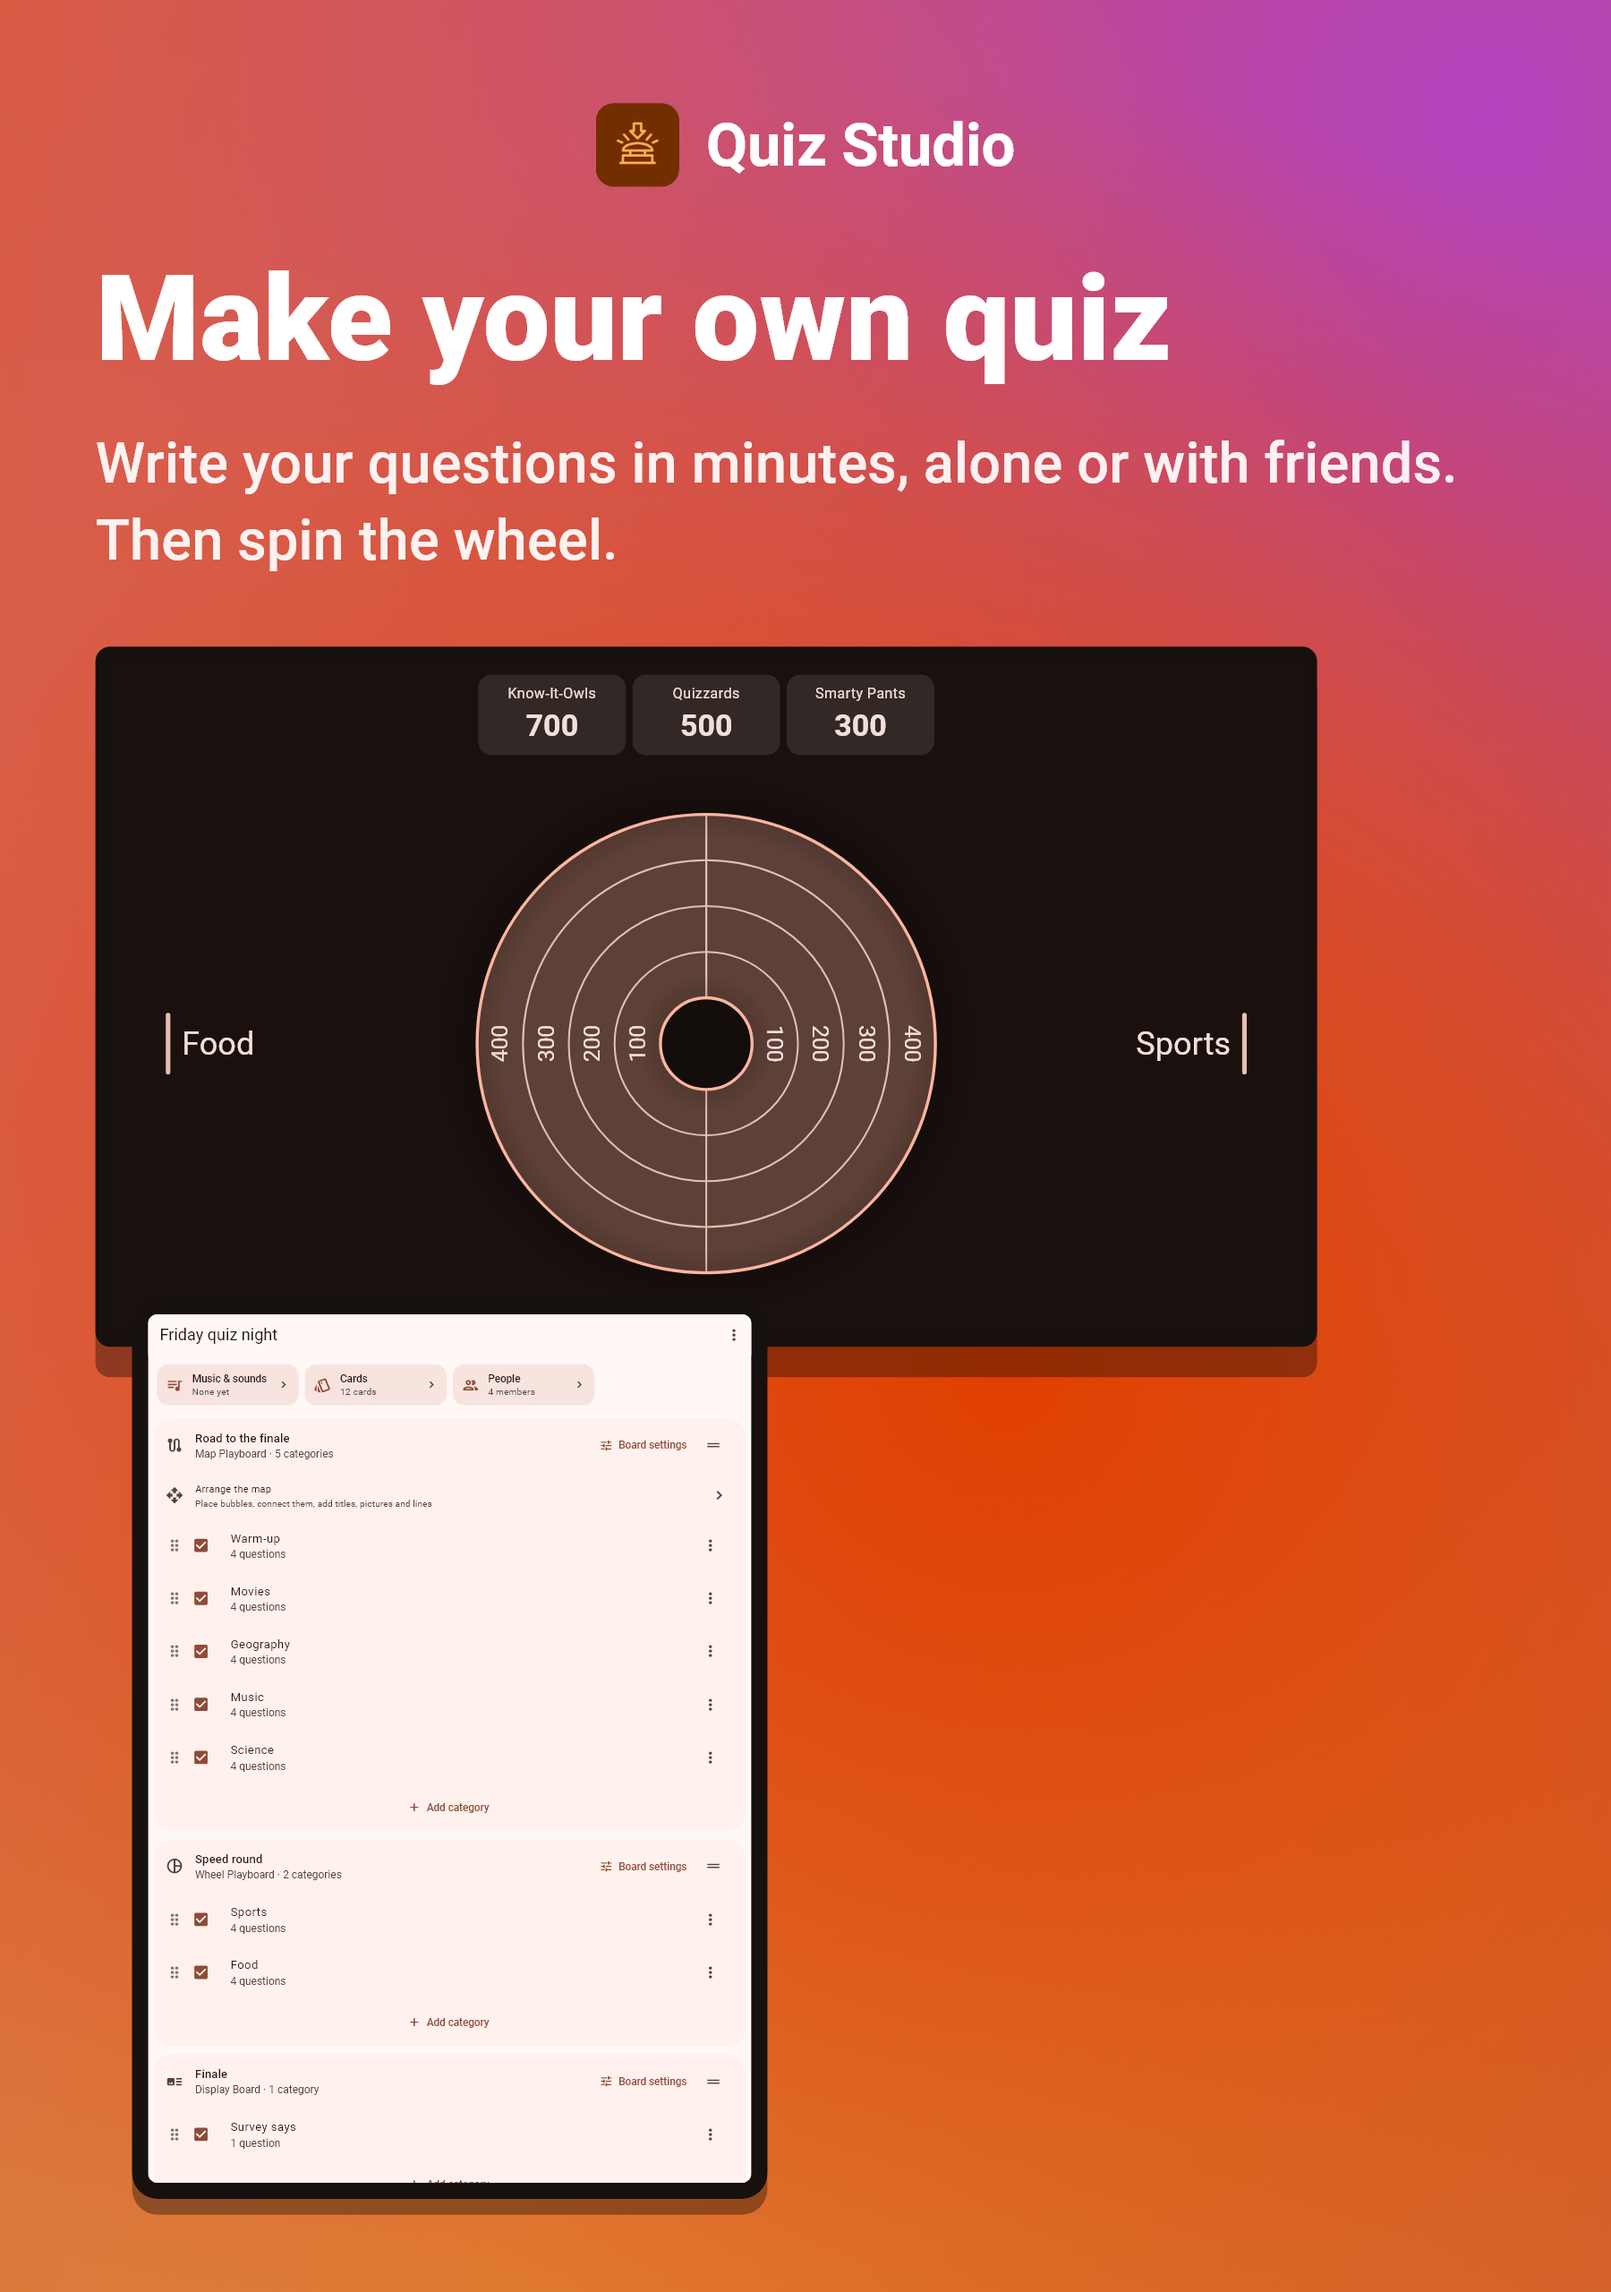
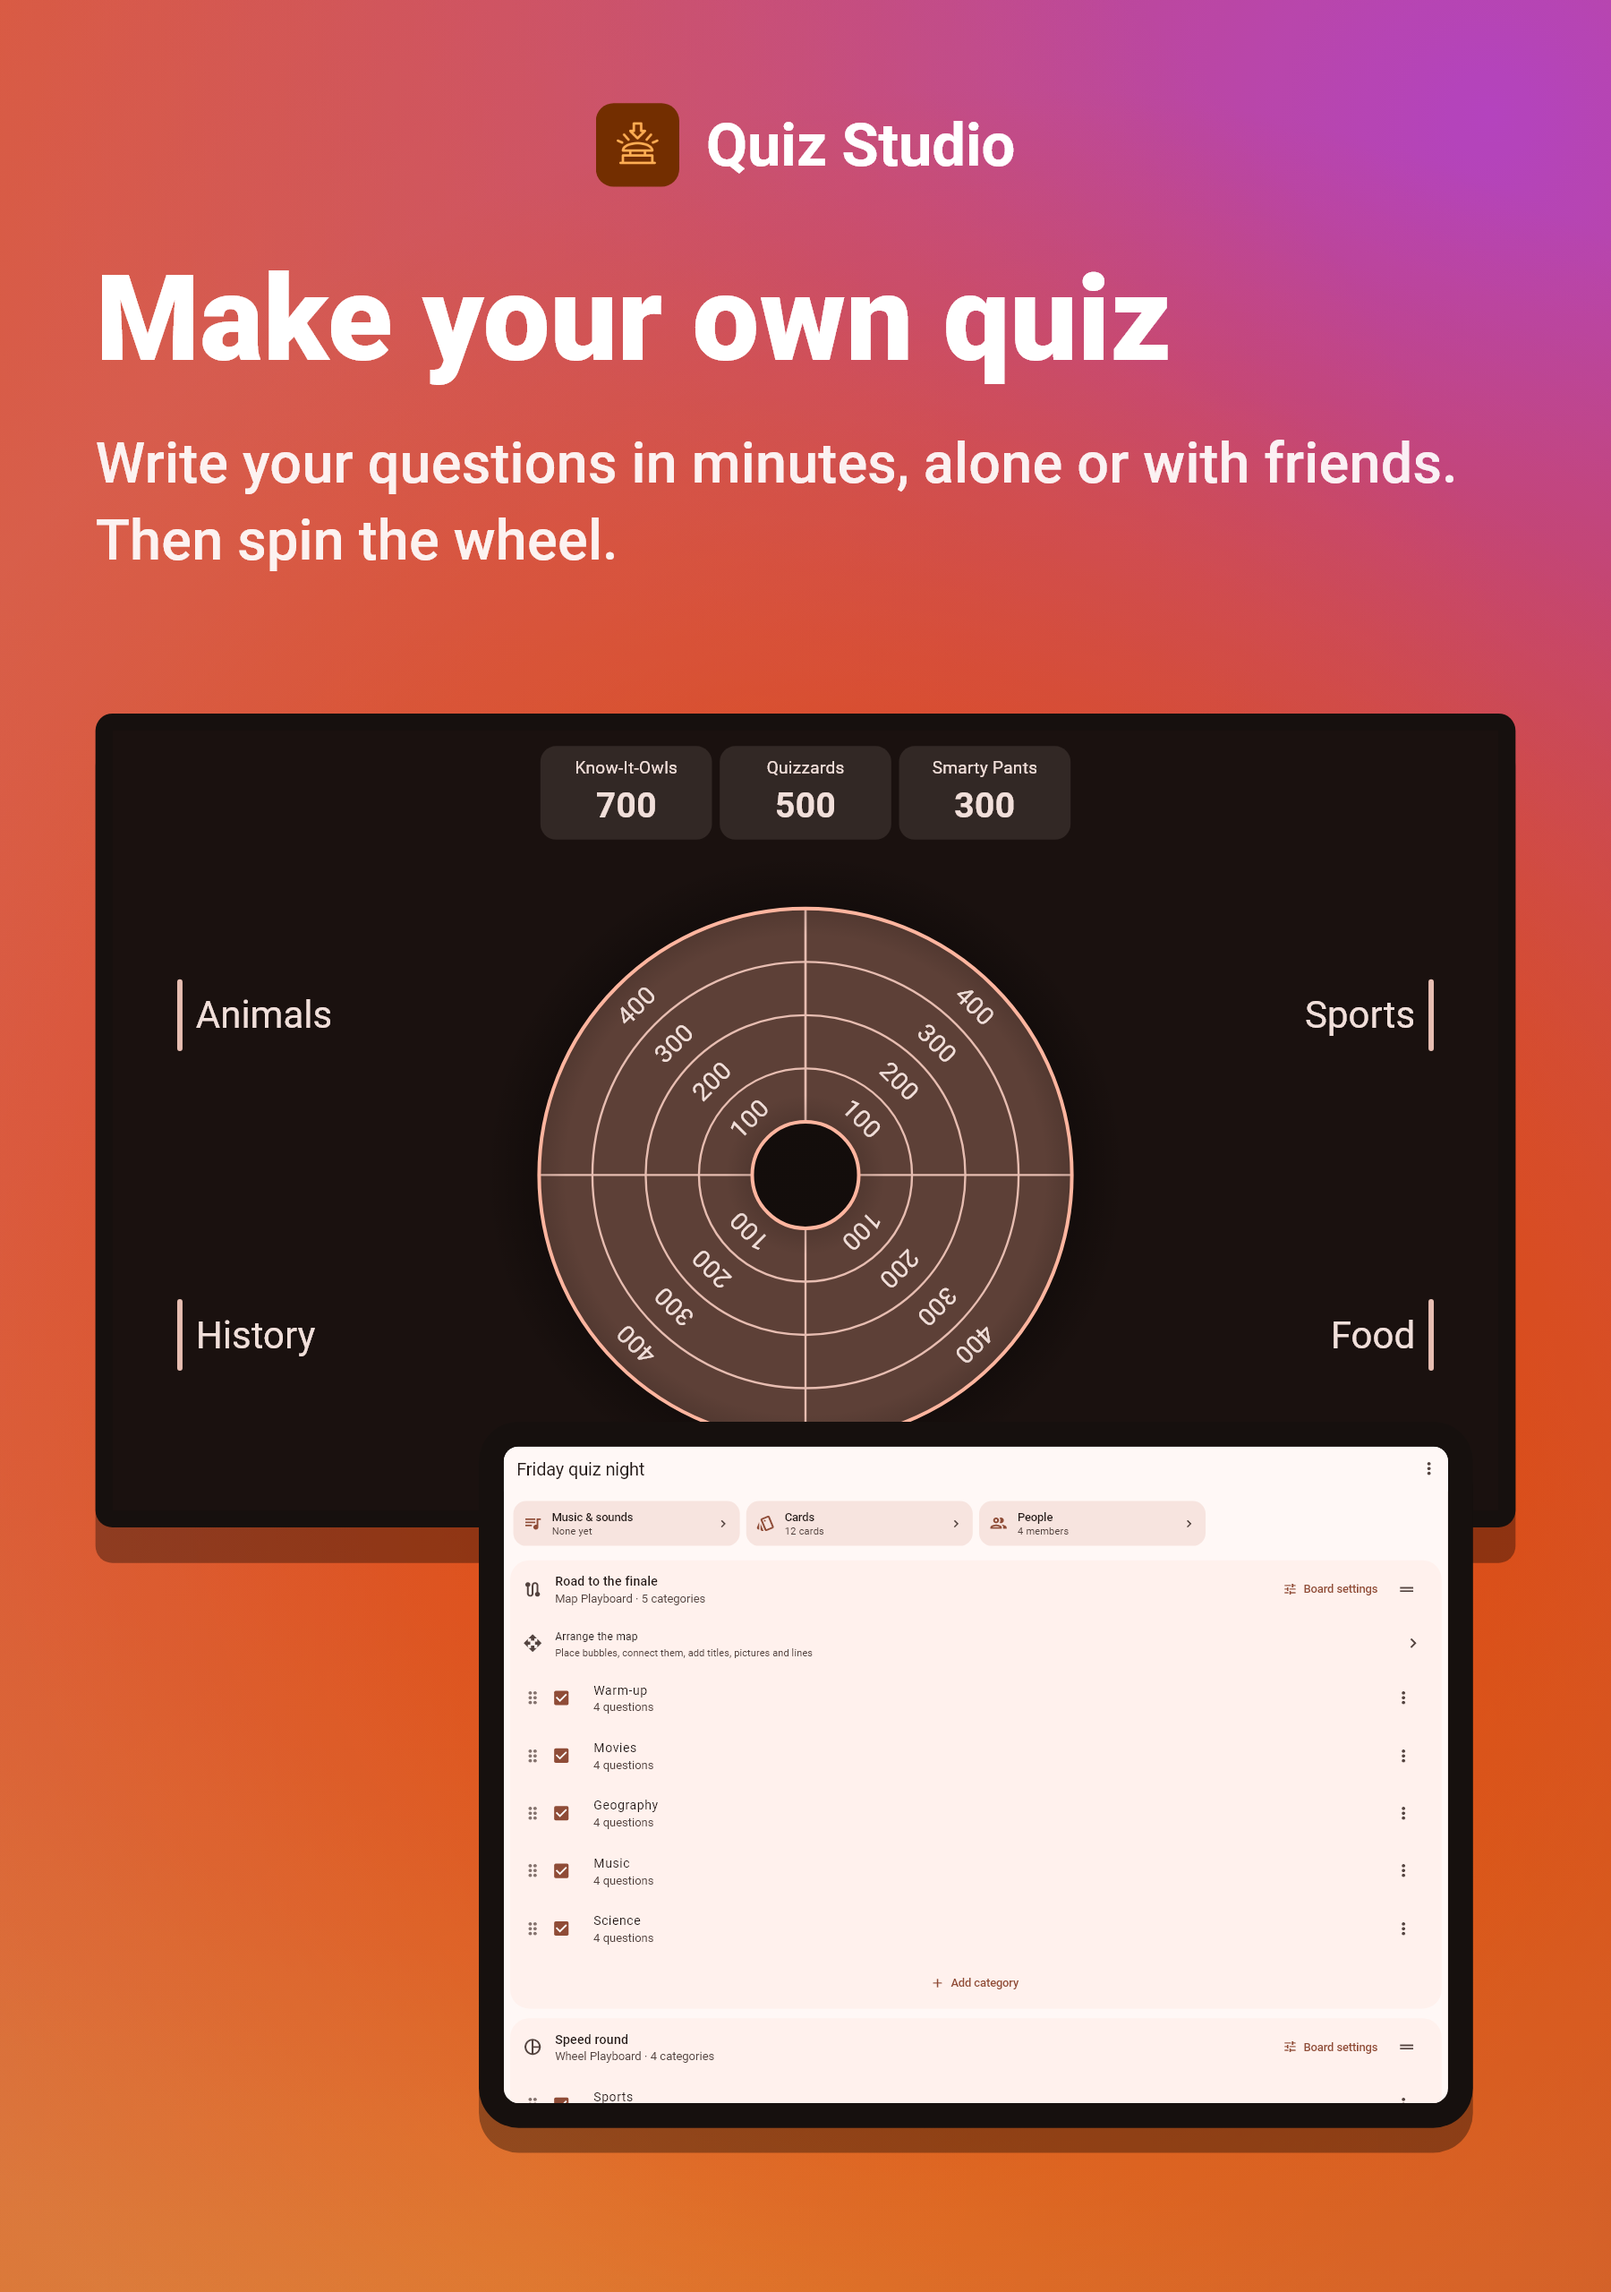
Last store image: wheel with four categories above the editor; no game show brand names in the texts

diff --git a/tool/store/showcase.dart b/tool/store/showcase.dart
@@ -22,13 +22,15 @@ const _texts = {
   'geography/q1': 'Which river flows through Vienna, Budapest and Belgrade?',
 };
 
-const _wheelNames = ['Sports', 'Food'];
-const _wheelIds = ['sports', 'food'];
+const _wheelNames = ['Sports', 'Food', 'History', 'Animals'];
+const _wheelIds = ['sports', 'food', 'history', 'animals'];
 
 const _hints = {'music/q2': 'Queen'};
 
 const _labels = {
   'sports': ['Football', 'Olympics', 'Tennis', 'Records'],
+  'history': ['Kings', 'Inventions', 'Dates', 'Empires'],
+  'animals': ['Pets', 'Birds', 'Ocean', 'Records'],
   'food': ['Fruit', 'Cheese', 'Spices', 'Dishes'],
   'warmup': ['Animals', 'Food', 'Sports', 'Spider'],
   'movies': ['Quotes', 'Actors', 'Oscars', 'Sequels'],
@@ -70,7 +72,7 @@ GameContent showcaseGame() => GameContent.assemble(
           _mapIds[i]: {'name': _mapNames[i], 'categoryGroup': 'road', 'categoryIndex': i, 'active': true},
         for (var i = 0; i < _wheelIds.length; i++)
           _wheelIds[i]: {'name': _wheelNames[i], 'categoryGroup': 'speed', 'categoryIndex': i, 'active': true},
-        'feud': {'name': 'Survey says', 'categoryGroup': 'final', 'categoryIndex': 0, 'active': true},
+        'feud': {'name': 'Top answers', 'categoryGroup': 'final', 'categoryIndex': 0, 'active': true},
       },
       questions: {
         for (final c in _mapIds)

diff --git a/docs/index.html b/docs/index.html
@@ -236,10 +236,10 @@
     </section>
 
     <section class="row flip">
-      <div class="media device"><img src="./images/tablet_connections.png" alt="Connections on a tablet" /></div>
+      <div class="media device"><img src="./images/tablet_connections.png" alt="A word puzzle on a tablet" /></div>
       <div>
         <h2>Puzzle rounds</h2>
-        <p>Connections, matching and quick-fire rounds, with animations on every device and the big screen.</p>
+        <p>Find four groups of four, match the pairs or race through quick-fire rounds, with animations on every device and the big screen.</p>
       </div>
     </section>
 
@@ -247,7 +247,7 @@
       <div class="media"><img src="./images/big_screen_feud.png" alt="A survey round on the big screen" /></div>
       <div>
         <h2>Survey rounds and more</h2>
-        <p>Family Feud style surveys, picture and clue reveals, music, confetti, fireworks and cards with pictures or video over the screen.</p>
+        <p>Guess the most popular answers to a survey, picture and clue reveals, music, confetti, fireworks and cards with pictures or video over the screen.</p>
       </div>
     </section>
 

diff --git a/tool/store_screenshots_test.dart b/tool/store_screenshots_test.dart
@@ -288,7 +288,7 @@ final _scenes = <String, Scene>{
     return _pair(wide, _presenter(_host(_feud)), _phone, _player(buzzer, 'pants'), width: 340, drop: 0.92);
   }),
   'editor': Scene("Make your own quiz", "Write your questions in minutes, alone or with friends. Then spin the wheel.", (tester, wide) {
-    return _pair(wide, _presenter(_host(const [SelectGroup('speed')])), _tabletTall, _editor(), width: 520, left: true, drop: 0.92);
+    return _pair(wide, _presenter(_host(const [SelectGroup('speed')])), _tabletWide, _editor(), width: 700, drop: 0.86);
   }),
 };
 

diff --git a/README.md b/README.md
@@ -17,7 +17,7 @@ whole evening from your phone. Teams buzz in and answer on their own phones.
 
 <img src="screenshots/playstore_phone/controller.png" width="200" alt="Controller on the phone">
 <img src="screenshots/playstore_phone/whiteboards.png" width="200" alt="Whiteboards">
-<img src="screenshots/playstore_phone/connections.png" width="200" alt="Connections">
+<img src="screenshots/playstore_phone/connections.png" width="200" alt="Word puzzle">
 <img src="screenshots/playstore_phone/feud.png" width="200" alt="Buzzers and survey rounds">
 
 </div>
@@ -27,8 +27,8 @@ whole evening from your phone. Teams buzz in and answer on their own phones.
 - **📺 The big screen:** a wheel, a grid or a map of categories with branching paths, team scores, a picture strip and music bars. On Windows the show can open in its own window, full screen on the projector.
 - **🎮 A controller that stays put:** Right, Wrong, Reveal and the rest always sit in the same place on the phone, whatever is on screen.
 - **🔴 Buzzers:** players scan a code and their phone becomes the team's buzzer. USB buzzer boxes work too, with a connection that heals itself.
-- **✍ Answers on the teams' devices:** whiteboards, text, numbers, sliders, pick one, put in order and match pairs, plus the Connections grid. You show and rate the answers one by one, many of them rate themselves.
-- **❓ Question types:** free questions, ABCD, picture and clue reveals, survey rounds (Family Feud style), Connections, matching and quick-fire rounds (Fragenhagel), buzzed or answered on the devices.
+- **✍ Answers on the teams' devices:** whiteboards, text, numbers, sliders, pick one, put in order and match pairs, plus a word puzzle where teams find four groups of four. You show and rate the answers one by one, many of them rate themselves.
+- **❓ Question types:** free questions, ABCD, picture and clue reveals, survey rounds where teams guess the most popular answers, four groups of four, matching and quick-fire rounds (Fragenhagel), buzzed or answered on the devices.
 - **🎵 Music and effects:** background music, a sound for every moment, team buzzer sounds, confetti, fireworks, cards with pictures or video over the screen.
 - **👥 Built together:** invite co-authors with a link, share single categories so nobody spoils the rest.
 - **📶 Works on the local network:** phones on the same Wi-Fi talk straight to the big screen, so a show keeps going when the internet drops.
@@ -37,7 +37,7 @@ whole evening from your phone. Teams buzz in and answer on their own phones.
 <table>
   <tr>
     <td><img src="docs/images/big_screen_whiteboards.png" alt="Whiteboard answers, rated"></td>
-    <td><img src="docs/images/big_screen_connections.png" alt="Connections on the big screen"></td>
+    <td><img src="docs/images/big_screen_connections.png" alt="A word puzzle on the big screen"></td>
   </tr>
   <tr>
     <td><img src="docs/images/big_screen_abcd.png" alt="An ABCD question"></td>
